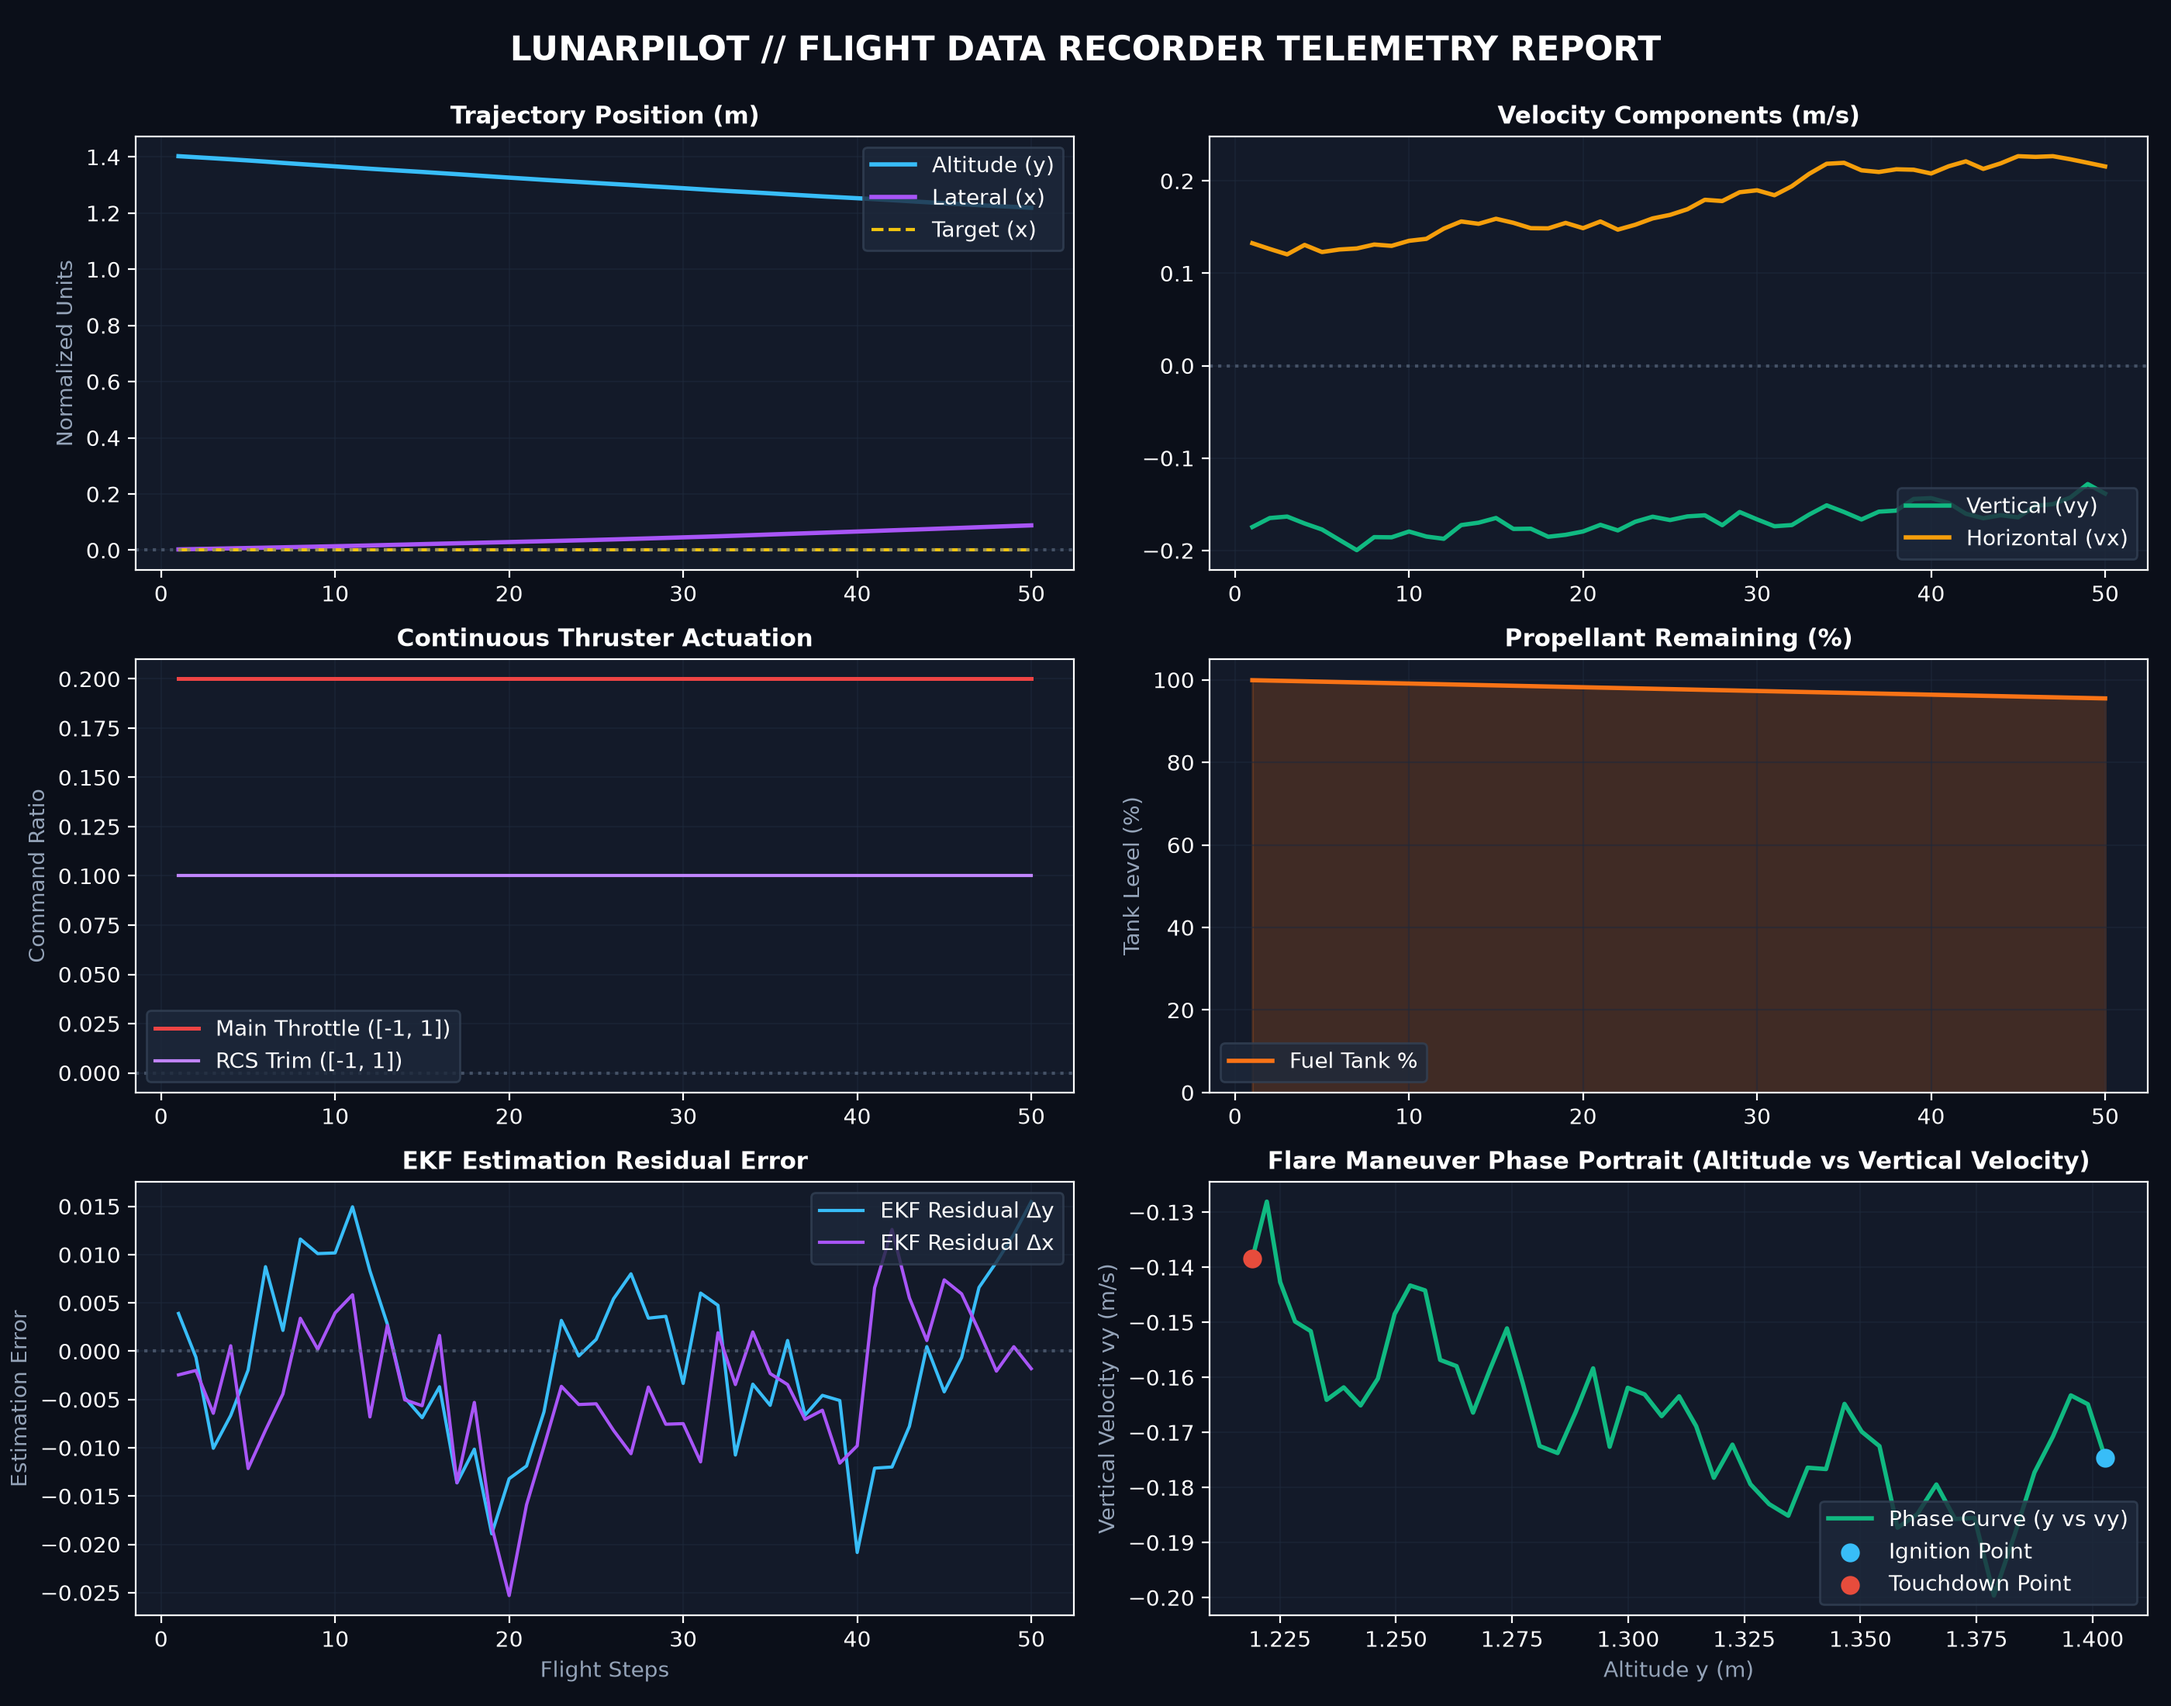
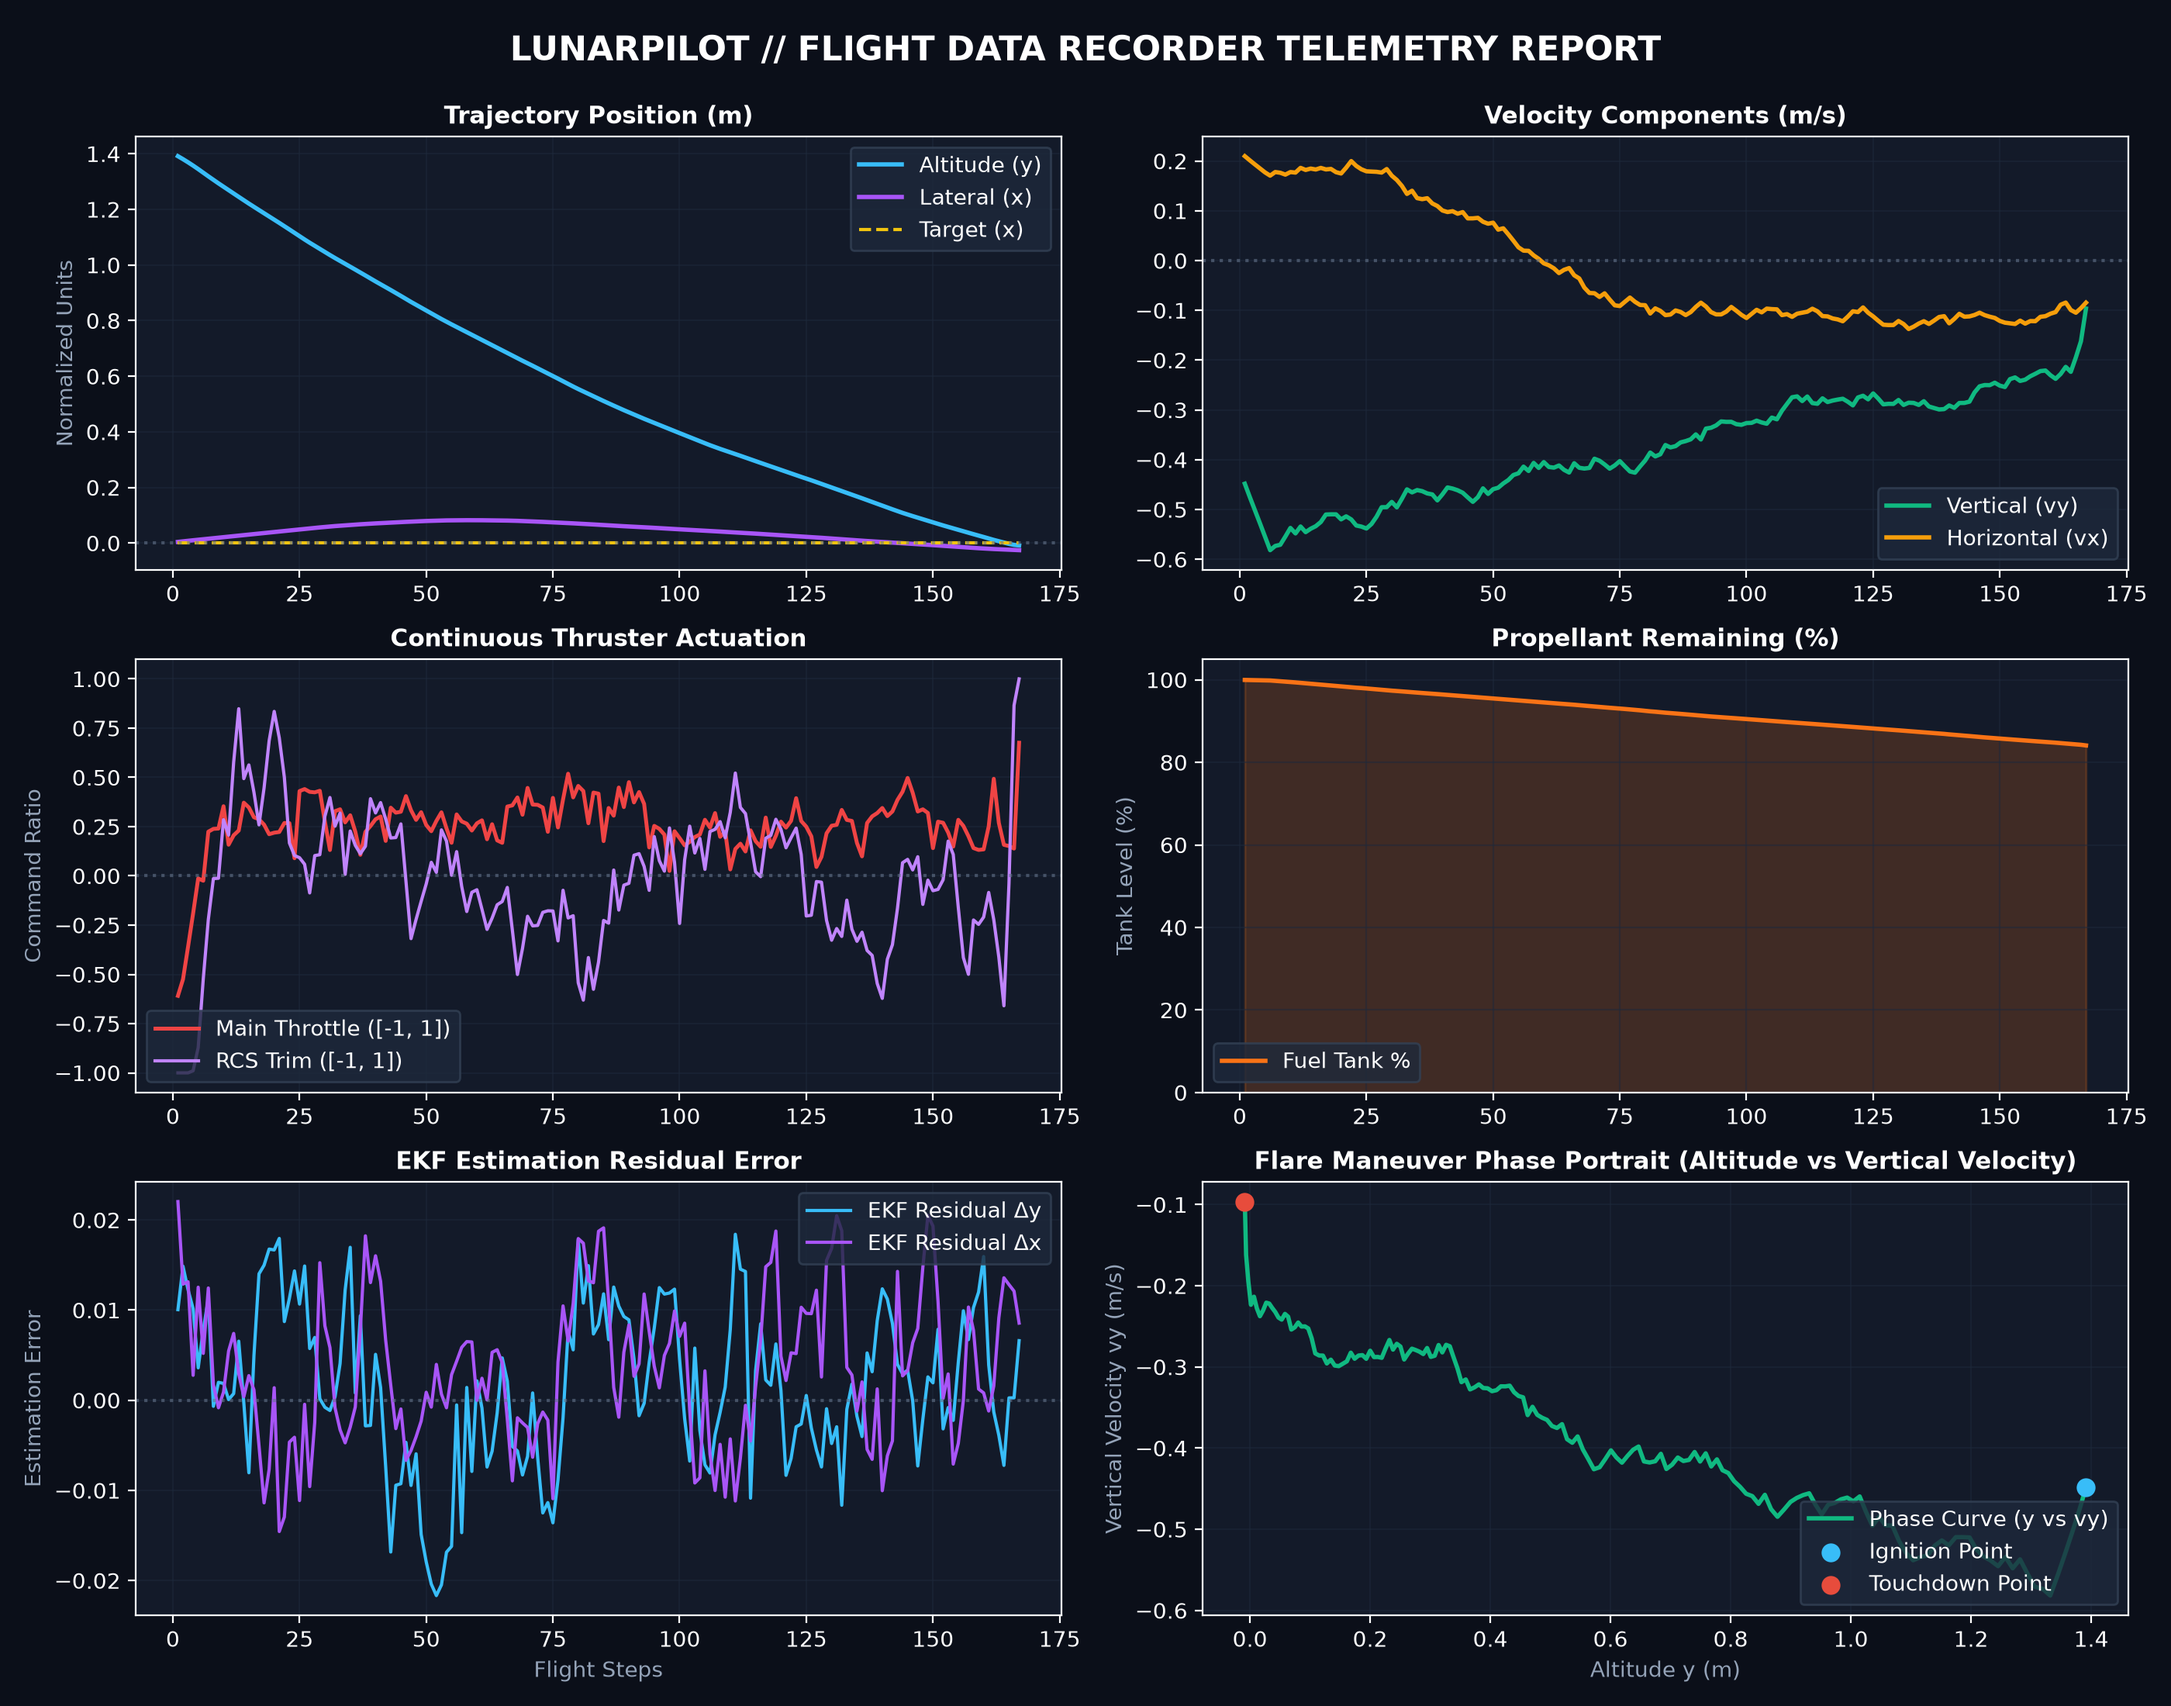
docs: add black box telemetry mission diagnostics section to README and update flight report

diff --git a/src/flight_recorder.py b/src/flight_recorder.py
@@ -155,3 +155,4 @@ class BlackBoxRecorder:
         plt.savefig(output_path, dpi=200, facecolor=fig.get_facecolor(), edgecolor="none")
         plt.close()
         print(f"📊 Telemetry Mission Report exported to: {output_path}")
+

diff --git a/src/avionics.py b/src/avionics.py
@@ -143,3 +143,4 @@ class AvionicsSuite(gym.Wrapper):
         info["target_x"] = target_x
 
         return est_obs, reward, terminated, truncated, info
+

diff --git a/src/fuel_system.py b/src/fuel_system.py
@@ -58,3 +58,4 @@ class PropellantSystem:
     @property
     def percentage(self) -> float:
         return (self.fuel / self.initial_fuel) * 100.0
+

diff --git a/src/fault_injector.py b/src/fault_injector.py
@@ -59,3 +59,4 @@ class FaultInjector:
                 corrupted_action[0] = corrupted_action[0] * 0.5
 
         return corrupted_action
+

diff --git a/src/state_estimator.py b/src/state_estimator.py
@@ -94,3 +94,4 @@ class ExtendedKalmanFilter:
         filtered_state[6:] = noisy_observation[6:]  # Legs
 
         return filtered_state
+

diff --git a/src/hazard_detection.py b/src/hazard_detection.py
@@ -34,3 +34,4 @@ class HazardDetectionSystem:
             self.active_target_x = 0.0
 
         return self.active_target_x
+

diff --git a/README.md b/README.md
@@ -114,6 +114,16 @@ $$F(s, a, s') = \gamma \Phi(s') - \Phi(s)$$
 
 ---
 
+## 📈 Black Box Telemetry & Mission Diagnostics
+
+The automated flight data recorder logs high-rate trajectory dynamics, propellant consumption, continuous actuator duty cycles, and Extended Kalman Filter (EKF) estimation residuals:
+
+<p align="center">
+  <img src="assets/mission_report_latest.png" alt="Black Box Telemetry Mission Report" width="100%" />
+</p>
+
+---
+
 ## 🛠 PPO Hyperparameters
 
 | Hyperparameter | Value | Description |
